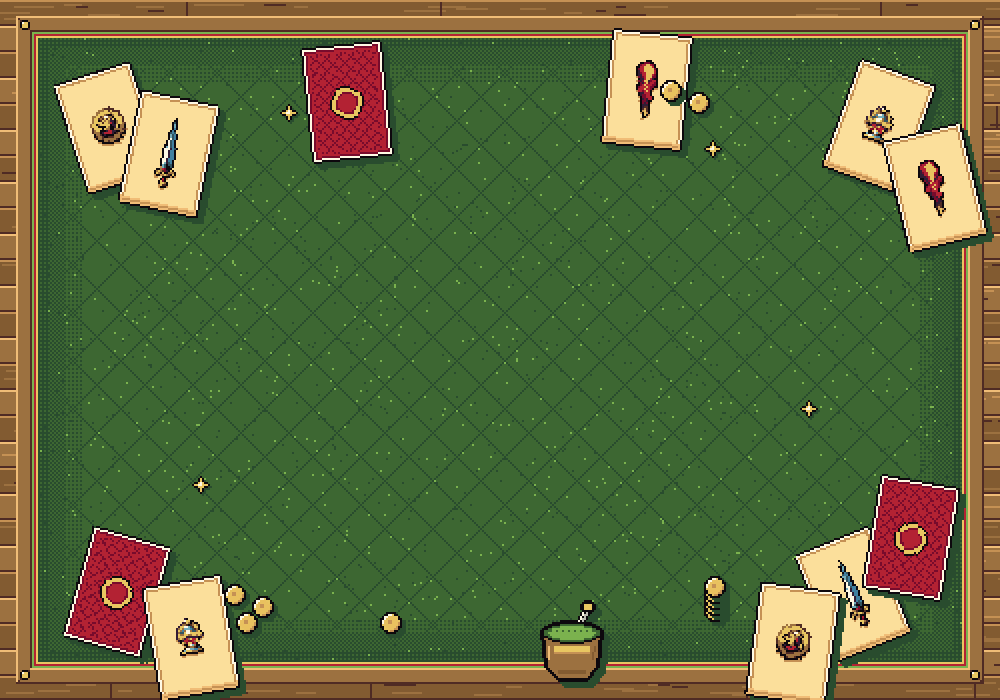
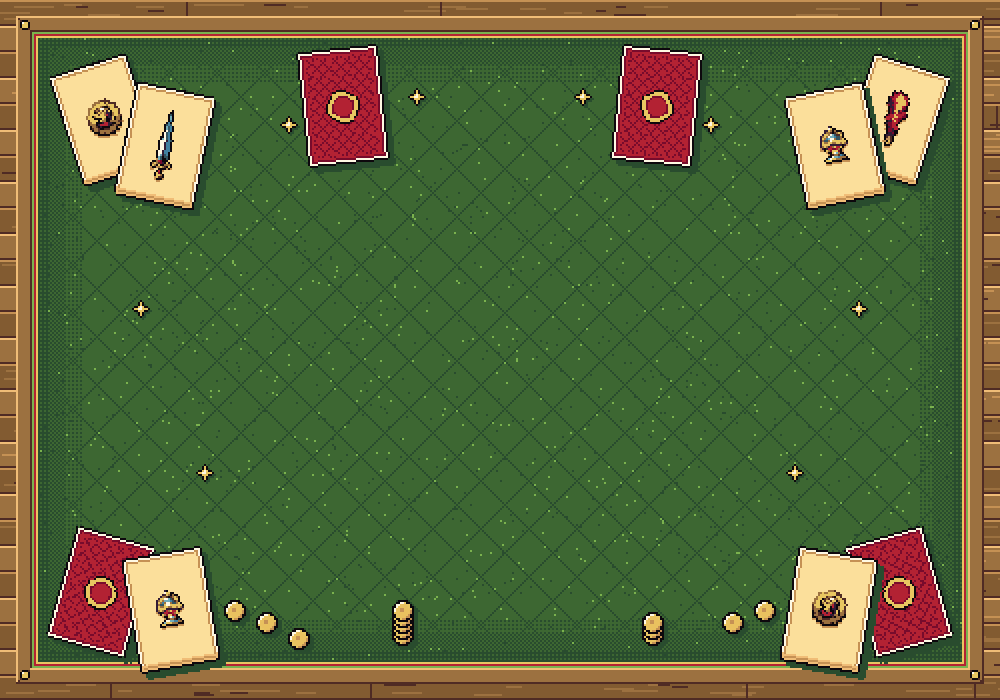
Changed background images and bug fixes.

diff --git a/telas/partida.py b/telas/partida.py
@@ -95,7 +95,6 @@ def carregar_verso_carta():
 
     return pygame.image.load(str(CAMINHO_VERSO_CARTA)).convert_alpha()
 
-
 # ==================================================
 # DESENHO DAS CARTAS
 # ==================================================
@@ -162,7 +161,7 @@ def desenhar_verso_carta(
 
 def iniciar_partida(tela, relogio):
     partida = Partida()
-    partida.pontos_jogador = 11
+    partida.pontos_jogador = 12
 
     if CAMINHO_MUSICA_PARTIDA.exists():
         pygame.mixer.music.load(str(CAMINHO_MUSICA_PARTIDA))
@@ -192,6 +191,10 @@ def iniciar_partida(tela, relogio):
         pygame.mixer.Sound(str(CAMINHO_VOZ_VITORIA_1)),
         pygame.mixer.Sound(str(CAMINHO_VOZ_VITORIA_2))
     ]
+
+    def parar_falas():
+        for fala in falas_vitoria + falas_derrota:
+            fala.stop()
 
     som_rollover.set_volume(0.05)
     som_toque.set_volume(0.05)
@@ -411,6 +414,7 @@ def iniciar_partida(tela, relogio):
 
             if evento.type == pygame.KEYDOWN:
                 if evento.key == pygame.K_ESCAPE:
+                    parar_falas()
                     musica_vitoria.stop()
                     musica_derrota.stop()
                     pygame.mixer.music.stop()
@@ -424,6 +428,8 @@ def iniciar_partida(tela, relogio):
 
             # Tela final: clique inicia nova partida.
             if encerrada:
+                parar_falas()
+
                 partida = Partida()
 
                 musica_vitoria.stop()

diff --git a/settings.py b/settings.py
@@ -28,7 +28,7 @@ CAMINHO_FONTE = (
 )
 
 CAMINHO_LOGO = PASTA_IMAGENS / "logo_pytruco.png"
-CAMINHO_FUNDO_MENU = PASTA_IMAGENS / "fundo_menu3.png"
+CAMINHO_FUNDO_MENU = PASTA_IMAGENS / "fundo_menu_arrumando.png"
 CAMINHO_FUNDO_PARTIDA = PASTA_IMAGENS / "fundo_partida.png"
 CAMINHO_TELA_DERROTA = PASTA_IMAGENS / "tela_derrota.png"
 CAMINHO_TELA_VITORIA = PASTA_IMAGENS / "tela_vitoria.png"
